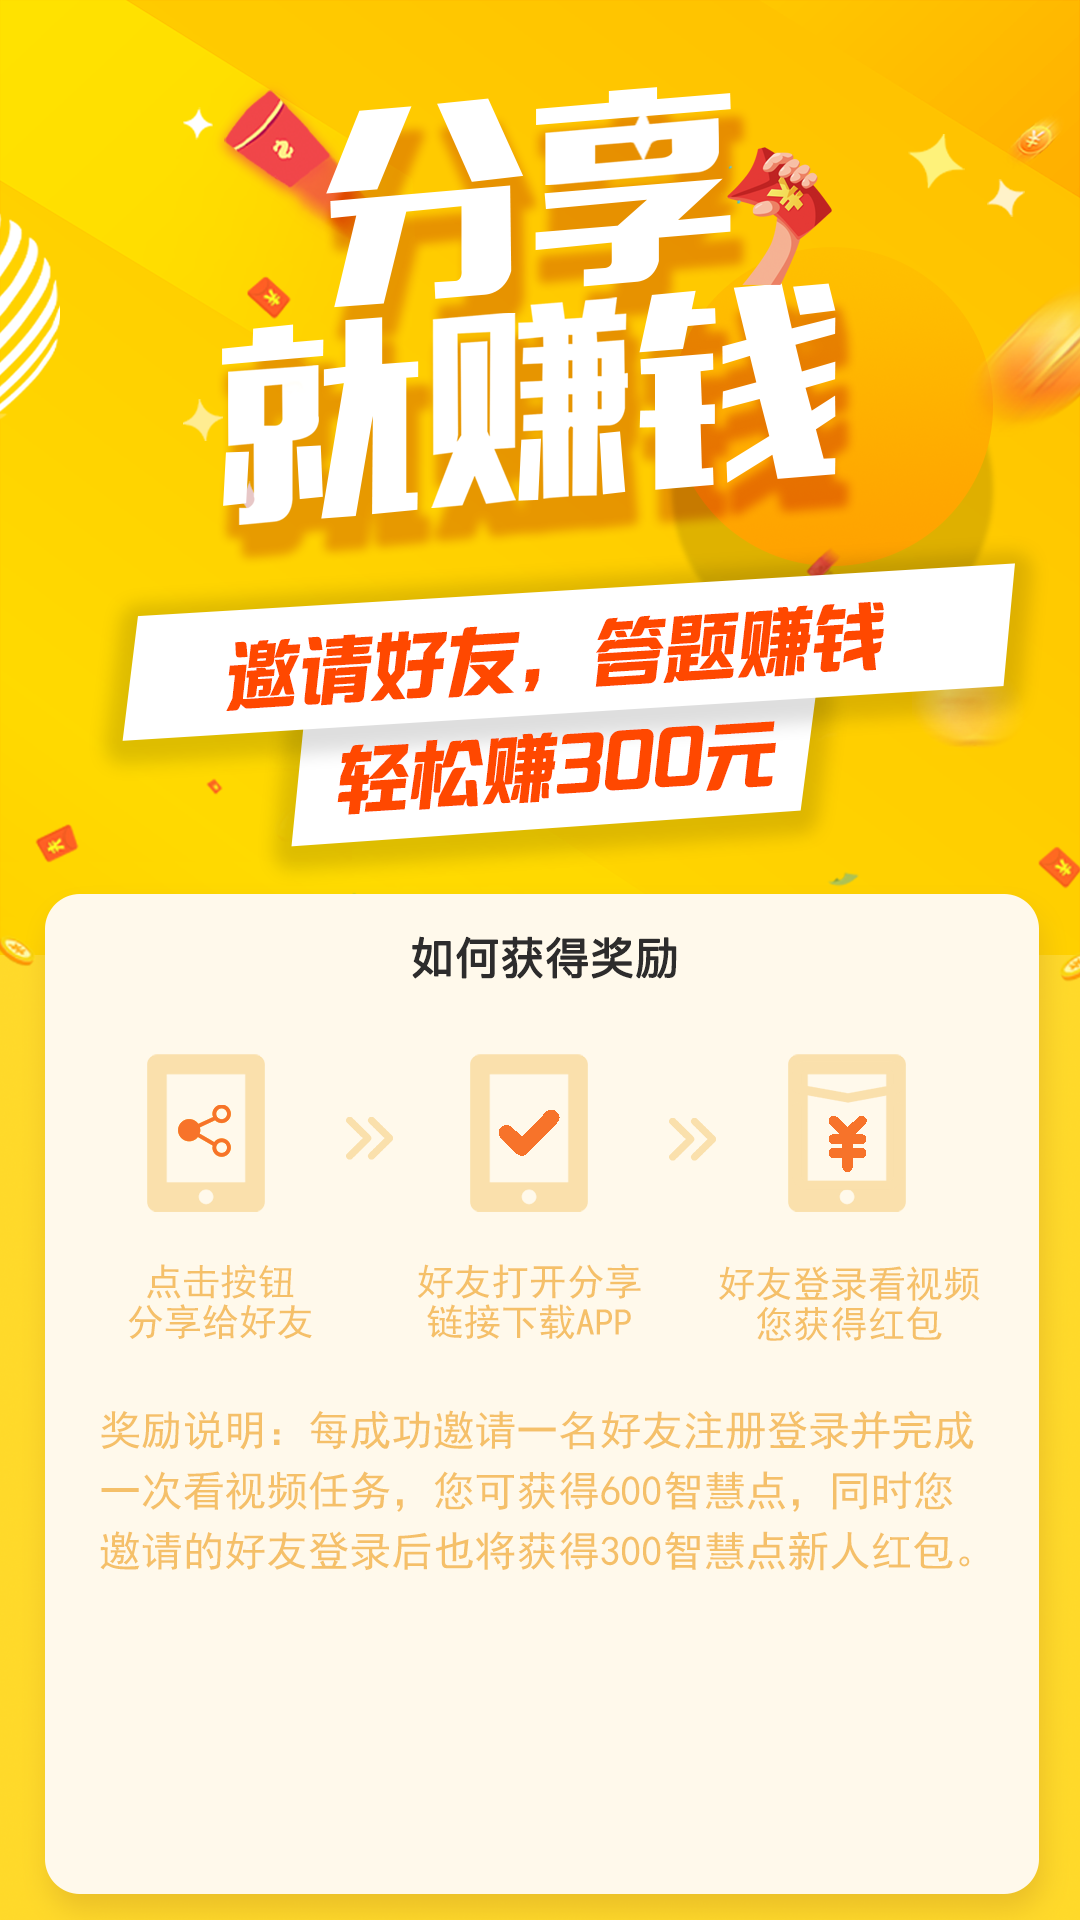
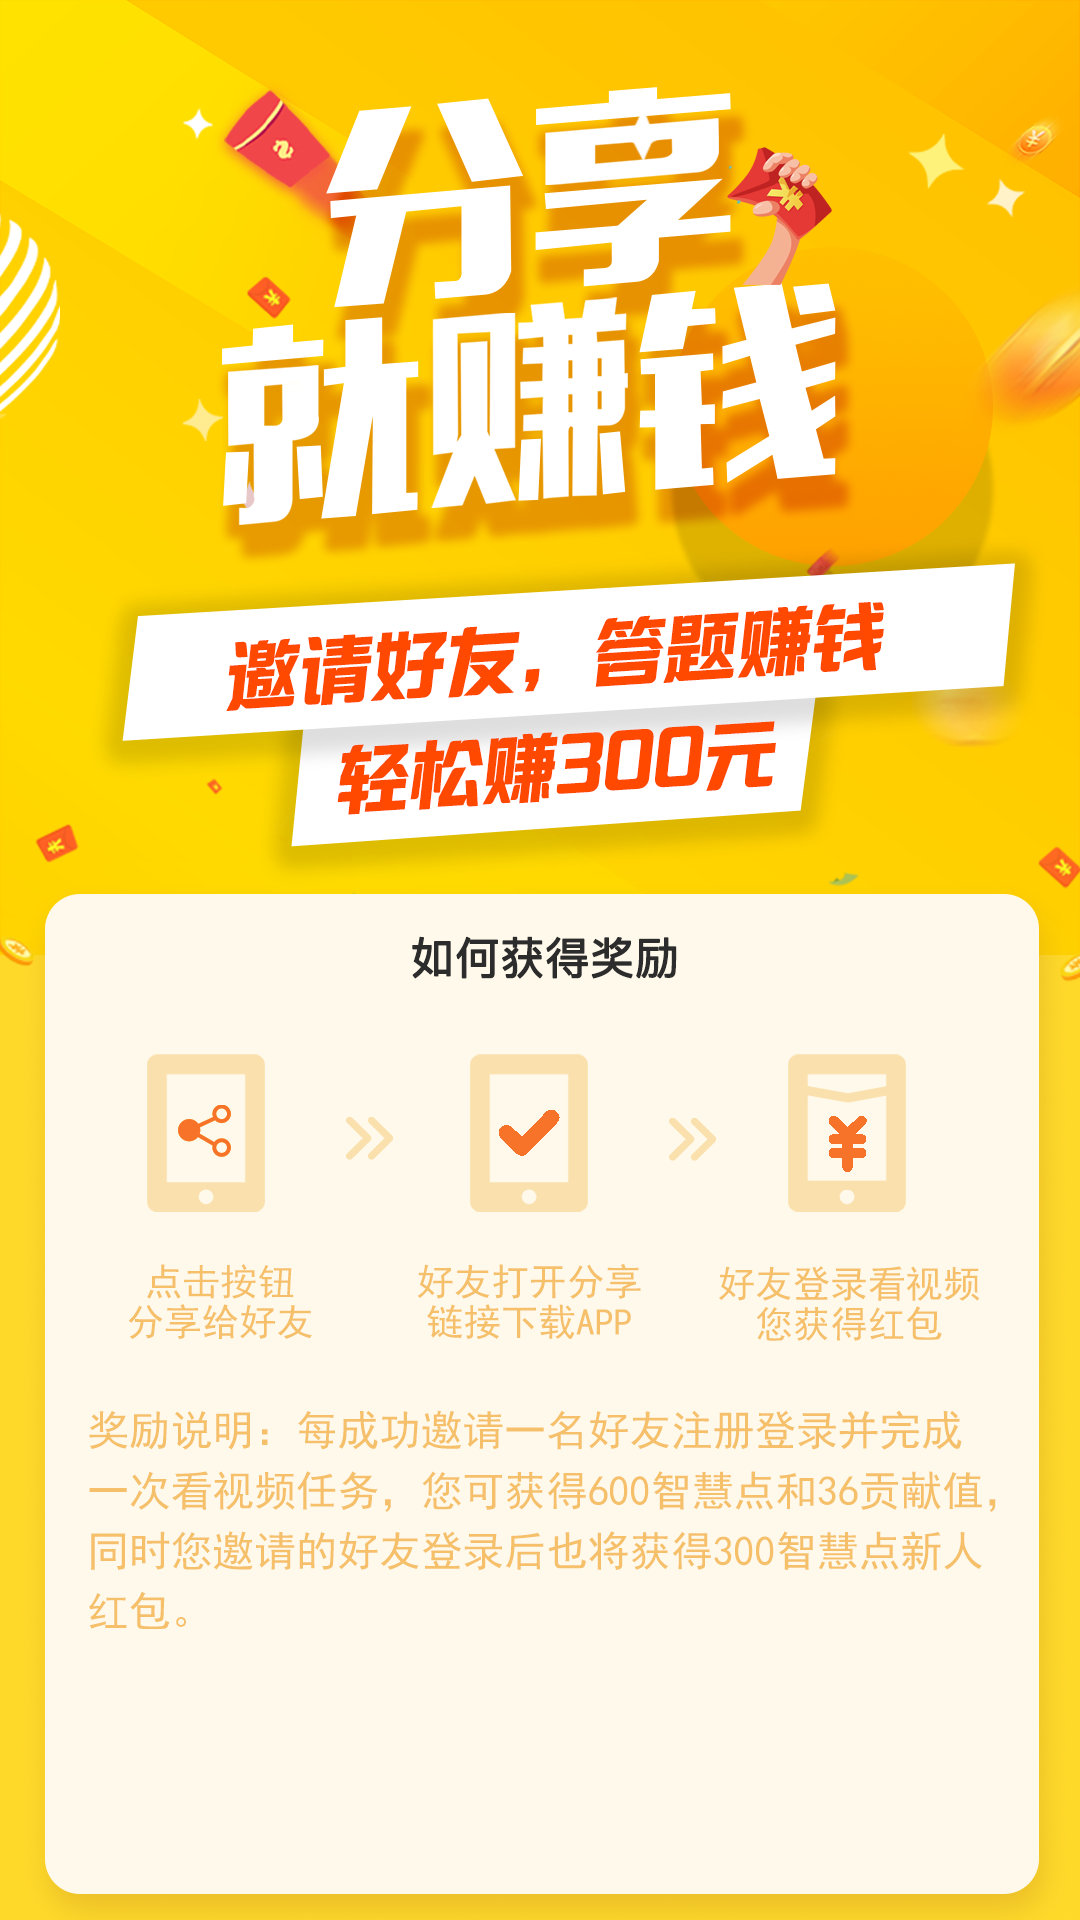
修改邀请奖励内容以及规则

Changed region(s): [[0.0917, 0.7188, 0.9167, 0.8438]]

diff --git a/src/screens/profile/MakeMoenyManual.js b/src/screens/profile/MakeMoenyManual.js
@@ -20,7 +20,7 @@ class MakeMoenyManual extends Component {
                         {
                             title: '如何获取更多智慧点？',
                             content:
-                                '除了新人福利，您还可以通过以下途径获得更多的智慧点提现：在精力点足够的情况下，您可以通过答题、出题获取智慧点。\n新人任务：您可以在【任务】-【新人任务】模块完善年龄、完善性别、上传新头像、修改昵称等任务来获取智慧点。\n激励任务：您可以在【任务】-【看视频赚钱】模块通过看激励视频、点击下载、查看详情来获取智慧点、精力点及贡献点。\n分享给好友：您可以在【任务】-【分享领现金】内参与分享活动，每成功邀请一位好友，可获得600智慧点奖励，邀请越多奖励越多',
+                                '除了新人福利，您还可以通过以下途径获得更多的智慧点提现：在精力点足够的情况下，您可以通过答题、出题获取智慧点。\n新人任务：您可以在【任务】-【新人任务】模块完善年龄、完善性别、上传新头像、修改昵称等任务来获取智慧点。\n激励任务：您可以在【任务】-【看视频赚钱】模块通过看激励视频、点击下载、查看详情来获取智慧点、精力点及贡献点。\n分享给好友：您可以在【任务】-【分享领现金】内参与分享活动，每成功邀请一位好友，可获得600智慧点和36贡献点的奖励，邀请越多奖励越多',
                         },
                         {
                             title: '什么是精力点？',
@@ -104,7 +104,7 @@ class MakeMoenyManual extends Component {
                         {
                             title: '如何邀请好友并获得奖励？有哪些奖励？',
                             content:
-                                '1.每成功邀请一位新用户下载并使用APP，您将获得600智慧点奖励，您可以将活动页面通过微信、QQ、微博等方式分享给好友，好友下载注册登录APP您将获得奖励，同时您邀请的好友登录后也将获得新人福利智慧点奖励，邀请好友人数无上限，邀请越多奖励越多。',
+                                '1.每成功邀请一位新用户下载并使用APP，您将获得600智慧点和36贡献点的奖励，您可以将活动页面通过微信、QQ、微博等方式分享给好友，好友下载注册登录APP您将获得奖励，同时您邀请的好友登录后也将获得新人福利智慧点奖励，邀请好友人数无上限，邀请越多奖励越多。',
                         },
                         {
                             title: '什么是无效邀请？为什么我邀请好友没有奖励是否有风险？',

diff --git a/src/screens/share/components/ShareRule.js b/src/screens/share/components/ShareRule.js
@@ -28,7 +28,7 @@ class ShareRule extends Component {
                             <Text style={{ color: Theme.white }}>1</Text>
                         </View>
                         <Text style={styles.text}>
-                            每成功邀请一位新用户下载并使用APP，您将获得600智慧点奖励和36贡献点，您可以将活动页面通过微信、QQ、微博等方式分享给好友，好友下载注册登录APP您将获得奖励，同时您邀请的好友登录后也将获得新人福利智慧点奖励。
+                            每成功邀请一位新用户下载并使用APP，您将获得600智慧点和36贡献点奖励，您可以将活动页面通过微信、QQ、微博等方式分享给好友，好友下载注册登录APP您将获得奖励，同时您邀请的好友登录后也将获得新人福利智慧点奖励。
                         </Text>
                     </View>
                     <View style={styles.item}>

diff --git a/src/screens/task/components/TaskItem.js b/src/screens/task/components/TaskItem.js
@@ -374,8 +374,11 @@ class TaskItem extends Component {
 	_showTaskContent = task => {
 		if (task.type == 6) {
 			return (
-				<Text style={styles.taskDetailText}>{`每成功分享一个用户注册登录，即可获取智慧点和贡献点奖励`}</Text>
-			);
+                <Text
+                    style={
+                        styles.taskDetailText
+                    }>{`每成功分享一个用户注册登录，即可获取600智慧点和36贡献点奖励`}</Text>
+            );
 		}
 		if (task.type == 4) {
 			return (
